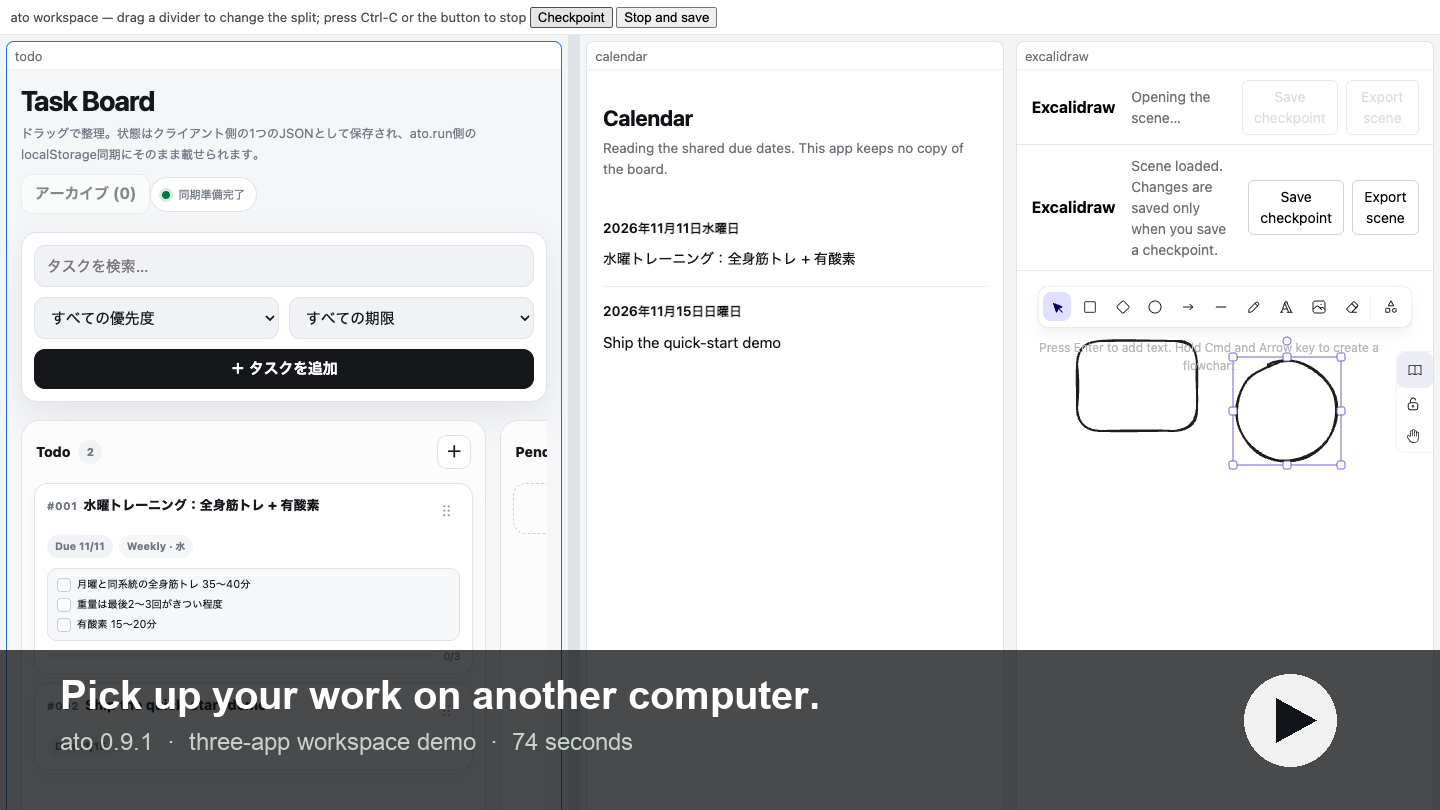
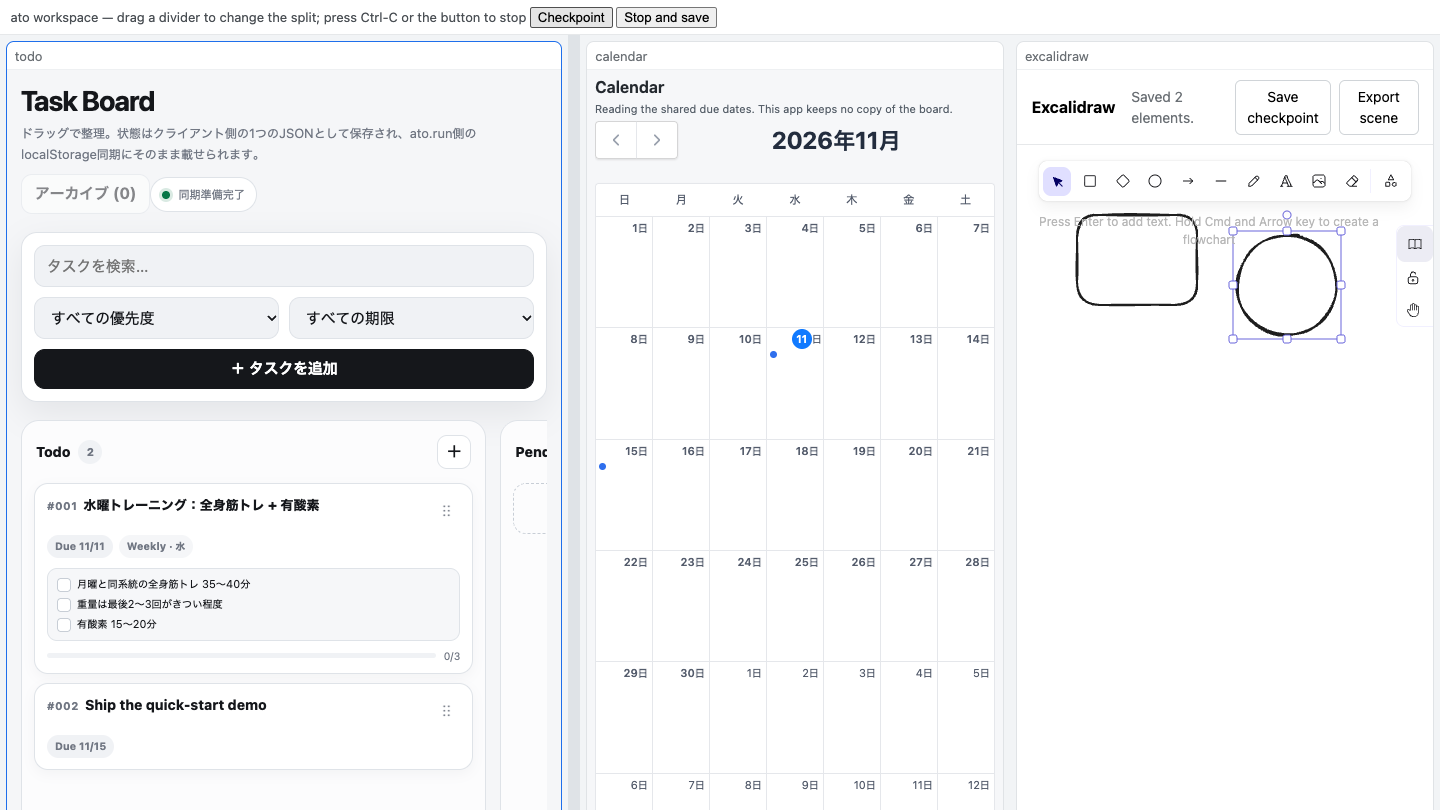
docs: fullcalendar calendar evidence and re-cut demo
Records the vendored FullCalendar 7.1.4 calendar (month/list, compact dots,
title view, 4 s refetch), the re-cut bundle/video digests, and the two sample
defects found while exercising the pane in a real browser. READMEs now say
76 seconds and describe the Excalidraw pane-level save.

diff --git a/README.ja.md b/README.ja.md
@@ -4,14 +4,14 @@
 
 Atoは、動作中のアプリ一式とそのデータをポータブルなCapsuleとして保存します。ここで作業を保存し、別のマシンで同じタスクと同じレイアウトを開けます。アプリはそれぞれ独立したままで、Workspaceはそれらを構成し、データは宣言されたoperationを通じて流れます。
 
-[74秒のデモを見る](https://ato-run.github.io/ato-samples/media/ato-quick-start-demo-v0.9.1.mp4)
+[76秒のデモを見る](https://ato-run.github.io/ato-samples/media/ato-quick-start-demo-v0.9.1.mp4)
 · [クイックスタート](#クイックスタート) · [English](README.md) · [ato.run](https://ato.run/)
 
 [![タスクボード、カレンダー、ホワイトボードの3アプリWorkspace](docs/assets/oss-quick-start/demo-poster.png)](https://ato-run.github.io/ato-samples/media/ato-quick-start-demo-v0.9.1.mp4)
 
 ## デモ
 
[2 lines of base64/hex data omitted]
 
 ## クイックスタート
 
@@ -80,6 +80,7 @@ ato workspace open workspace.toml --checkpoint workspace.checkpoint.toml \
 
 - Workspace shellが扱うのは**Static Webペインのみ**です。native/processペインは名前付きで拒否され、surface hostが必要です（本リリースの範囲外）。
 - Checkpointが復元するのはペインのデータ、分割、アクティブペインです。アプリ内のスクロール位置やテキスト選択は復元されません。
+- Excalidrawのシーンは、ペイン内の**Save checkpoint**ボタンで保存します。その後のshellのCheckpointが、他のペインとレイアウトと一緒にそのシーンを取り込みます。未保存のシーンは含まれません。
 - サンプルのTask Boardには小さなlegacy local-state移行が残っています。ウォークスルーで意味を持つデータとレイアウトは、宣言されたoperation側です。
 - live writerの引き継ぎには共有Coordinatorが必要です。checkpointを別ホストへコピーするのは、オフラインでの継続という別の操作です。
 - このウォークスルーに本番サービスは不要で、GitHubのリリースダウンロード以外の外部接続はありません。

diff --git a/README.md b/README.md
@@ -7,14 +7,14 @@ workspace here, open the same task and layout on a different machine. The apps
 stay independent applications; the workspace only composes them and the
 data flows through declared operations.
 
-[Watch the 74-second demo](https://ato-run.github.io/ato-samples/media/ato-quick-start-demo-v0.9.1.mp4)
+[Watch the 76-second demo](https://ato-run.github.io/ato-samples/media/ato-quick-start-demo-v0.9.1.mp4)
 · [Quick start](#quick-start) · [日本語](README.ja.md) · [ato.run](https://ato.run/)
 
 [![Three-app workspace: task board, calendar and whiteboard](docs/assets/oss-quick-start/demo-poster.png)](https://ato-run.github.io/ato-samples/media/ato-quick-start-demo-v0.9.1.mp4)
 
 ## Demo
 
-A 74-second, no-audio, captioned recording of the flow below: edit the
+A 76-second, no-audio, captioned recording of the flow below: edit the
 whiteboard, add a task with a due date, let the calendar read the due-date
 projection, checkpoint, stop, and resume with the same data and split layout.
 It was recorded with the published `ato 0.9.1` CLI and the published v0.9.1
@@ -22,7 +22,7 @@ bundle on macOS arm64; the same commands and bundle are covered by the
 macOS/Linux/Windows acceptance evidence linked under
 [Documentation](#documentation). The video is also attached to the
 [`ato-samples` v0.9.1 release](https://github.com/ato-run/ato-samples/releases/tag/v0.9.1)
[2 lines of base64/hex data omitted]
 
 ## Quick start
 
@@ -108,6 +108,9 @@ See [Computation](docs/concepts/computation.md) and
   are refused by name and need a surface host (not part of this release).
 - The checkpoint restores the pane data, the split and the active pane; in-pane
   scroll or text selection inside an app is not restored.
+- Excalidraw saves its scene through its own **Save checkpoint** button; the
+  shell Checkpoint then captures that scene with the other panes and the layout.
+  An unsaved scene is not included.
 - The sample Task Board still carries a small legacy local-state migration; the
   data and layout that matter for the walkthrough are the declared operations.
 - A live writer hand-over needs a shared Coordinator; copying a checkpoint to

diff --git a/docs/ops/oss-quick-start-local-e2e-20261110.md b/docs/ops/oss-quick-start-local-e2e-20261110.md
@@ -353,3 +353,40 @@ a development build:
   (https://github.com/ato-run/ato-samples/releases/download/v0.9.1/ato-quick-start-demo-v0.9.1.mp4),
[1 lines of base64/hex data omitted]
   duration 74.3 s.
+
+## Calendar rework: vendored FullCalendar 7.1.4 (2026-11-11)
+
+The hand-written month grid was hard to read in the ~400 px pane, so the
+Calendar pane now uses FullCalendar for rendering, date math and navigation.
+Ato keeps only the adapter from the operation-only `todo_list_due_dates`
+projection into events.
+
+- **Vendored build**: `fullcalendar@7.1.4` (MIT) + dayGrid/list + Pulse theme +
+  Japanese locale + `temporal-polyfill`, compiled with Vite into one IIFE
+  (`fullcalendar.min.js`, 286 KB) and one stylesheet (skeleton + Pulse theme,
+  19 KB). The capsule makes no network request; no CDN is used. The vendor
+  README and LICENSE live next to the files.
+- **Views**: `dayGridMonth` by default, `listMonth` in the toolbar,
+  `editable: false`. Below 520 px the pane shows one dot per due date; wider
+  panes show titles. Events refetch every 4 s and on visibility change, so a
+  TODO edit appears without reloading the pane.
+- **Verified** in the real three-pane workspace at 1440 px (compact dots) and
+  1920 px (titles, Japanese weekdays), including a `todo_create` appearing
+  through the refetch.
+
+Re-cut artifacts:
+
+- bundle `ato-oss-quick-start-v0.9.1.tar.gz` SHA-256
[1 lines of base64/hex data omitted]
+  (capsules: todo `d414333c…`, calendar `37839882…`, excalidraw `6d3fdcd4…`),
+  built by `quickstart-bundle.yml` from `ato-samples` main.
+- demo `ato-quick-start-demo-v0.9.1.mp4`, 76 s, SHA-256
[1 lines of base64/hex data omitted]
+
+Two defects surfaced while exercising the pane in a browser and are fixed in the
+sample sources: index.html kept a static Excalidraw header (disabled Save
+button) next to the React shell, and Excalidraw scene JSON contains `null`
+fields that TOML checkpoints cannot encode. The sample now strips nulls before
+`scene_save`; the general limit remains (a DataResource document containing
+JSON `null` cannot be checkpointed by the CLI yet) and is not claimed as
+supported.
